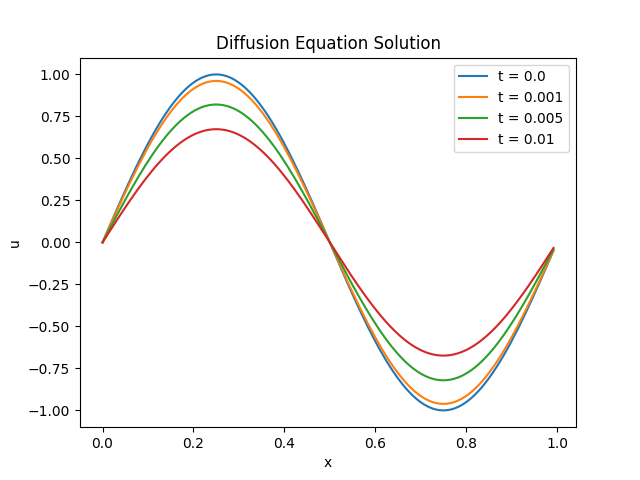
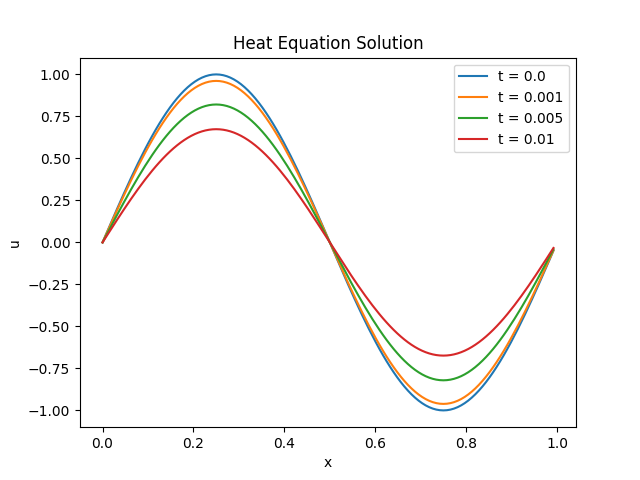
modularized

Changed region(s): [[0.3438, 0.0625, 0.6875, 0.125]]

diff --git a/simulation.py b/simulation.py
@@ -15,94 +15,68 @@ def initial_condition(x):
 N = 128         # Number of grid points
 dx = L / N      # Grid spacing
 dt = 0.00001    # Time step
-num_steps = int(T/dt)    # Number of time steps
+num_steps = int(T / dt)    # Number of time steps
 
 plot_time_steps = [0, 100, 500, 1000]
 
 filename = f"u_3d_{alpha}_{dx}_{dt}_{N}_{num_steps}"
 
-if os.path.exists(f'{filename}.npy'):
-    u_3d = np.load(f'{filename}.npy')
-    print("Loaded data from file")
-    fig = plt.figure(1)
+def display_and_save_3d_plot(u_3d, filename):
+    fig = plt.figure()
     ax = fig.add_subplot(111, projection='3d')
-    X, T = np.meshgrid(np.linspace(0, L, N, endpoint=False), np.linspace(0, T, num_steps))
-    ax.plot_surface(X, T, u_3d, cmap='viridis')
-    ax.set_title(f"Diffusion Equation Solution")
+    X, T_vals = np.meshgrid(np.linspace(0, L, N, endpoint=False), np.linspace(0, T, num_steps))
+    ax.plot_surface(X, T_vals, u_3d, cmap='viridis')
+    ax.set_title(f"Heat Equation Solution")
     ax.set_xlabel('x')
     ax.set_ylabel('t')
     ax.set_zlabel('u')
     plt.savefig(f'{filename}_3d.png')
     plt.show()
-    plt.figure(2)
+
+def display_and_save_2d_plots(u_3d, filename):
+    plt.figure()
     x = np.linspace(0, L, N, endpoint=False)
     for step in plot_time_steps:
         plt.plot(x, u_3d[step], label=f"t = {step * dt}")
+        solution = np.exp(-4 * np.pi * np.pi * alpha * step * dt) * np.sin(2 * np.pi * x)
+        mean_error = np.sum(np.abs(u_3d[step] - solution)) / N
+        print(f"Mean error at t = {step * dt} is {mean_error}")
     plt.legend()
     plt.xlabel('x')
     plt.ylabel('u')
-    plt.title(f"Diffusion Equation Solution")
+    plt.title(f"Heat Equation Solution")
     plt.savefig(f'{filename}_2d.png')
     plt.show()
-    exit()
 
-# Initialize grid and solution arrays
-x = np.linspace(0, L, N, endpoint=False)
-u = initial_condition(x)
+def main():
+    if os.path.exists(f'{filename}.npy'):
+        u_3d = np.load(f'{filename}.npy')
+        print("Loaded data from file")
+        display_and_save_3d_plot(u_3d, filename)
+        x = np.linspace(0, L, N, endpoint=False)
+        display_and_save_2d_plots(u_3d, filename)
+        exit()
 
-# Create meshgrid for 3D plotting
-X, T = np.meshgrid(x, np.linspace(0, T, num_steps))
+    x = np.linspace(0, L, N, endpoint=False)
+    u = initial_condition(x)
+    X, T = np.meshgrid(x, np.linspace(0, T, num_steps))
+    u_3d = np.zeros((num_steps, N))
 
-# Initialize the 3D array to store the solution
-u_3d = np.zeros((num_steps, N))
+    for step in range(num_steps):
+        u_3d[step] = u
+        new_u = np.zeros(N)
 
-# Perform time-stepping and store solutions
-for step in range(num_steps):
-    u_3d[step] = u
-    
-    new_u = np.zeros(N)
+        for i in range(N):
+            left = (i - 1 + N) % N
+            right = (i + 1) % N
+            new_u[i] = u[i] + alpha * dt / (dx * dx) * (u[left] - 2 * u[i] + u[right])
+            print(new_u[i] - u[i])
 
-    for i in range(N):
-        left = (i - 1 + N) % N    # Periodic boundary conditions
-        right = (i + 1) % N
+        u = new_u
 
-        new_u[i] = u[i] + alpha * dt / (dx * dx) * (u[left] - 2 * u[i] + u[right])
-        print(new_u[i] - u[i])
+    display_and_save_3d_plot(u_3d, filename)
+    display_and_save_2d_plots(u_3d, filename)
+    np.save(f'{filename}.npy', u_3d)
 
-    u = new_u
-
-# Create 3D plot
-fig = plt.figure(1)
-ax = fig.add_subplot(111, projection='3d')
-ax.plot_surface(X, T, u_3d, cmap='viridis')
-
-# save figure and data, file name must include alpha, dx, dt, N, num_steps
-np.save(f'{filename}.npy', u_3d)
-plt.savefig(f'{filename}_3d.png')
-
-ax.set_title(f"Diffusion Equation Solution")
-ax.set_xlabel('x')
-ax.set_ylabel('t')
-ax.set_zlabel('u')
-plt.show()
-
-# Create 2D plot
-plt.figure(2)
-for step in plot_time_steps:
-    plt.plot(x, u_3d[step], label=f"t = {step * dt}")
-    # Calculate average error at these time steps
-    solution = np.exp(-4 * np.pi * np.pi * alpha * step * dt) * np.sin(2 * np.pi * x)
-    mean_error = np.sum(np.abs(u_3d[step] - solution)) / N
-    rms_error = np.sqrt(np.sum((u_3d[step] - solution) ** 2) / N)
-    print(f"Mean error at t = {step * dt} is {mean_error}")
-    print(f"RMS error at t = {step * dt} is {rms_error}")
-
-plt.xlabel('x')
-plt.ylabel('u')
-plt.title(f"Diffusion Equation Solution")
-plt.legend()
-np.save(f'{filename}.npy', u_3d)
-plt.savefig(f'{filename}_2d.png')
-plt.show()
-
-
+if __name__ == "__main__":
+    main()
